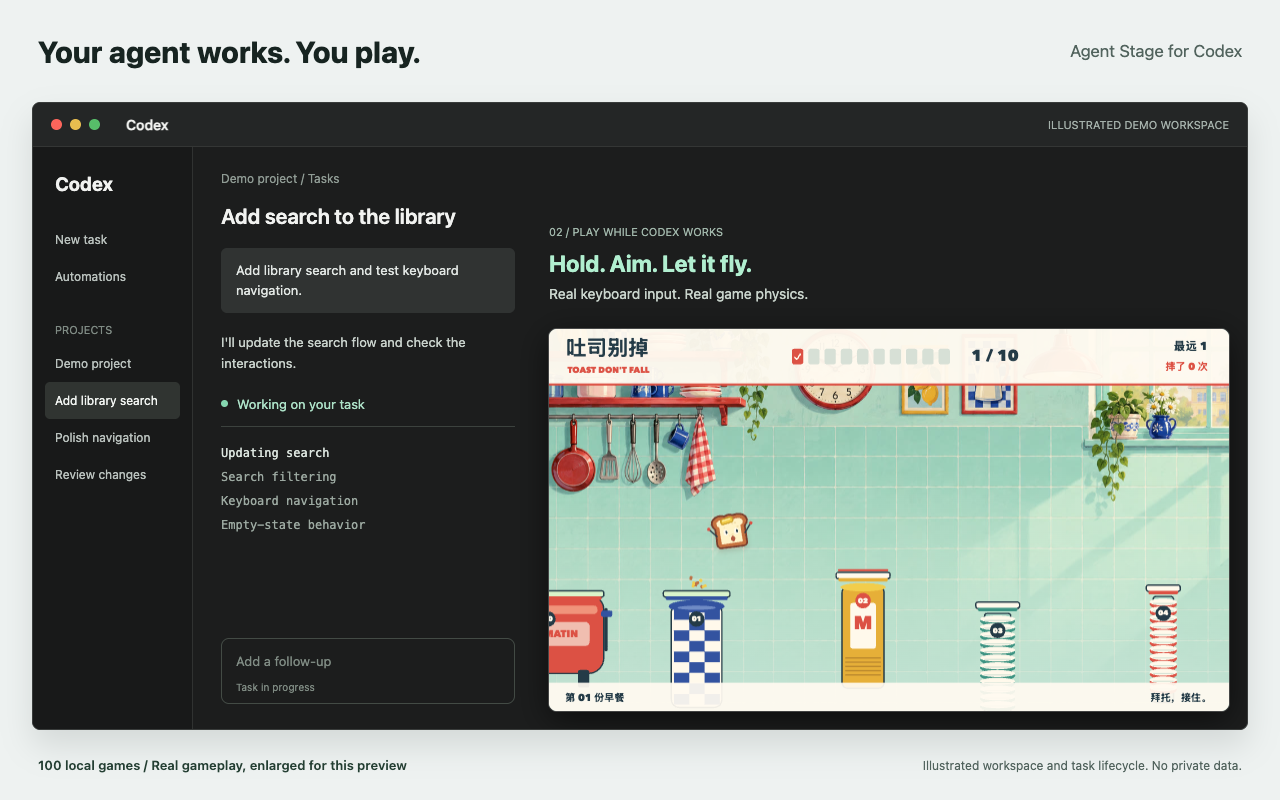
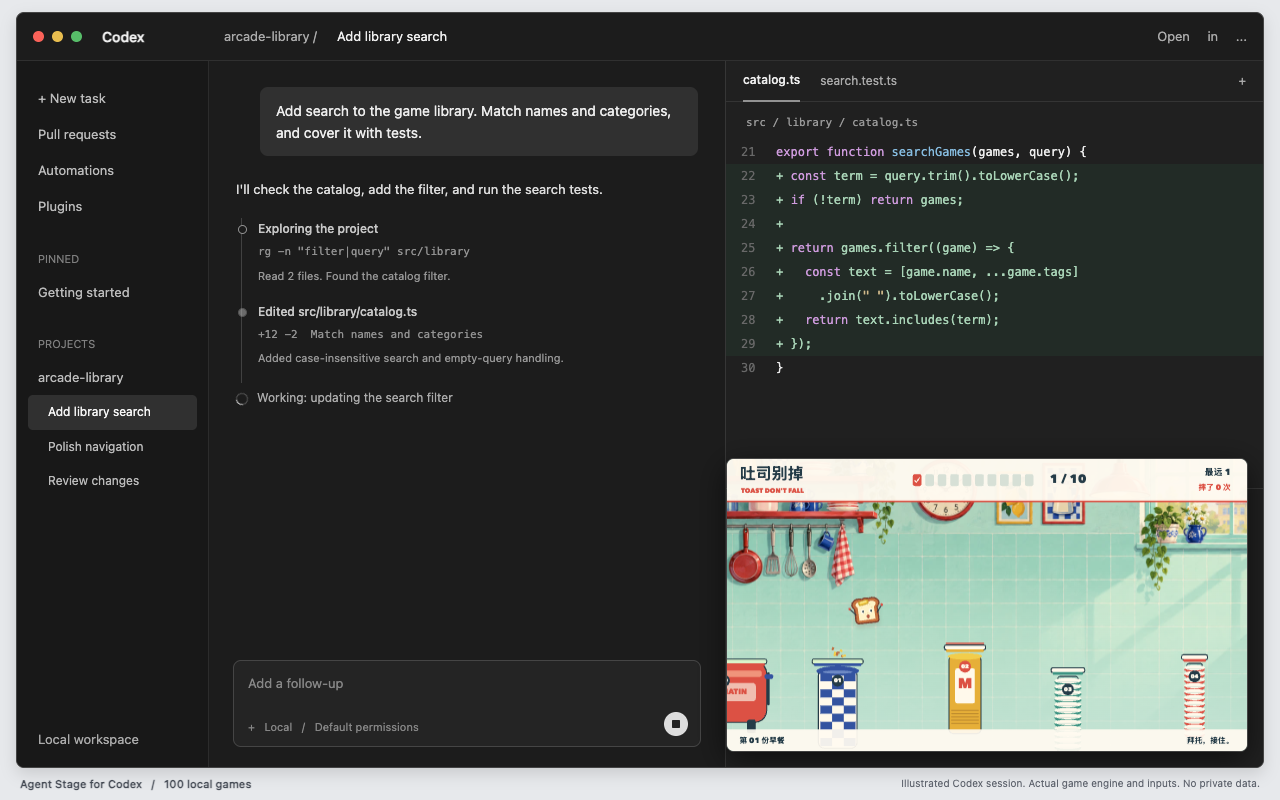
Show concurrent Codex work and gameplay in the README demo

diff --git a/tools/fixtures/readme-preview.html b/tools/fixtures/readme-preview.html
@@ -2,64 +2,109 @@
 <html lang="en">
 <meta charset="utf-8">
 <meta name="viewport" content="width=device-width, initial-scale=1">
-<title>Agent Stage illustrated preview</title>
+<title>Agent Stage illustrated Codex session</title>
 <style>
 * { box-sizing: border-box; }
 html, body { margin: 0; width: 1280px; height: 800px; overflow: hidden; }
-body { background: #eef2f1; color: #f1f2f0; font-family: -apple-system, BlinkMacSystemFont, "Segoe UI", sans-serif; letter-spacing: 0; }
-.heading { height: 102px; padding: 29px 38px; display: flex; justify-content: space-between; align-items: center; color: #172421; }
-.heading strong { font-size: 30px; font-weight: 750; }
-.heading span { font-size: 17px; color: #52645e; }
-.window { position: relative; height: 628px; margin: 0 32px; border: 1px solid #393c3b; border-radius: 8px; background: #1c1d1d; overflow: hidden; box-shadow: 0 16px 32px #17242120; }
-.titlebar { height: 44px; display: flex; align-items: center; gap: 8px; padding: 0 18px; background: #242626; border-bottom: 1px solid #343635; }
-.dot { width: 11px; height: 11px; border-radius: 50%; background: #fc655b; }
+body { background: #e7e9ec; color: #ededed; font: 13px/1.55 -apple-system, BlinkMacSystemFont, "Segoe UI", sans-serif; letter-spacing: 0; }
+.window { position: relative; width: 1248px; height: 756px; margin: 12px 16px 0; border: 1px solid #444; border-radius: 8px; background: #1c1c1c; overflow: hidden; box-shadow: 0 6px 16px #0002; }
+.titlebar { height: 48px; display: flex; align-items: center; padding: 0 16px; gap: 8px; border-bottom: 1px solid #303030; }
+.dot { width: 11px; height: 11px; border-radius: 50%; background: #fa6259; }
 .dot:nth-child(2) { background: #e8bd4f; } .dot:nth-child(3) { background: #57bd69; }
-.titlebar strong { margin-left: 18px; font-size: 14px; font-weight: 550; }
-.titlebar small { margin-left: auto; color: #a4b0aa; font-size: 11px; }
-.sidebar { position: absolute; top: 44px; bottom: 0; left: 0; width: 160px; padding: 26px 12px; background: #181919; border-right: 1px solid #303231; font-size: 12px; }
-.sidebar strong { display: block; padding: 0 10px 26px; font-size: 19px; }
-.nav { padding: 11px 10px; color: #b9c1bd; }
-.nav.active { background: #303431; color: #f2f5f2; border-radius: 5px; }
-.section { color: #7f8b84; font-size: 11px; margin: 28px 10px 9px; }
-.workspace { margin-left: 160px; width: 350px; padding: 24px 28px; }
-.crumb { font-size: 12px; color: #8f9b94; }
-h1 { font-size: 21px; font-weight: 600; margin: 18px 0 20px; }
-.prompt { width: 100%; padding: 13px 15px; border-radius: 6px; color: #e2e7e4; background: #303332; font-size: 13px; line-height: 1.5; }
-.reply { margin-top: 19px; font-size: 13px; line-height: 1.65; color: #c8d1cb; }
-.task { margin-top: 21px; display: flex; align-items: center; gap: 9px; font-size: 13px; color: #ade2c8; }
-.pulse { width: 7px; height: 7px; background: #85d6b0; border-radius: 50%; }
-.terminal { margin-top: 14px; width: 100%; padding: 14px 0; border-top: 1px solid #3c423e; font: 12px/2 ui-monospace, SFMono-Regular, Menlo, monospace; color: #9ca9a1; }
-.terminal b { color: #dce5df; font-weight: 400; }
-.composer { position: absolute; left: 188px; bottom: 25px; width: 294px; height: 66px; border: 1px solid #434b45; border-radius: 8px; padding: 14px; color: #7f8b83; font-size: 13px; }
-.composer small { display: block; margin-top: 12px; font-size: 10px; }
-.companion { position: absolute; width: 680px; height: 382.5px; right: 18px; bottom: 18px; border-radius: 8px; box-shadow: 0 0 0 1px #ffffff35, 0 8px 32px #0009; overflow: hidden; background: #b7dacf; }
-canvas { display: block; width: 680px; height: 382.5px; outline: none; }
-.caption { position: absolute; right: 18px; bottom: 427px; width: 680px; }
-.caption small { display: block; color: #a0b6aa; font-size: 11px; margin-bottom: 12px; }
-.caption strong { color: #b1efd0; font-size: 23px; }
-.caption div { margin-top: 8px; color: #c9d4cc; font-size: 14px; }
-.complete { position: absolute; right: 18px; bottom: 18px; width: 680px; height: 382.5px; display: none; align-items: center; justify-content: center; flex-direction: column; gap: 13px; color: #b2c5b9; font-size: 16px; }
-.complete b { font-size: 28px; color: #f1f5f2; font-weight: 550; }
-body[data-phase="complete"] .companion { visibility: hidden; }
-body[data-phase="complete"] .complete { display: flex; }
-footer { height: 70px; display: flex; align-items: center; justify-content: space-between; margin: 0 38px; color: #52645e; font-size: 12px; }
-footer b { color: #243f33; font-size: 13px; font-weight: 600; }
+.titlebar strong { width: 102px; margin-left: 12px; font-size: 14px; font-weight: 550; }
+.titlebar .project { color: #aaa; margin-left: 12px; }
+.titlebar .title { color: #eee; margin-left: 12px; }
+.titlebar .actions { margin-left: auto; color: #aaa; word-spacing: 14px; }
+.sidebar { position: absolute; top: 48px; bottom: 0; width: 192px; padding: 19px 11px; background: #181818; border-right: 1px solid #2c2c2c; }
+.nav { padding: 8px 10px; color: #bbb; white-space: nowrap; }
+.nav.active { background: #303030; color: #f5f5f5; border-radius: 5px; }
+.section { margin: 25px 10px 7px; color: #7f7f7f; font-size: 11px; }
+.nav.task-link { padding-left: 20px; font-size: 12px; }
+.account { position: absolute; bottom: 18px; left: 21px; color: #aaa; }
+.workspace { position: absolute; left: 192px; top: 48px; bottom: 0; width: 516px; padding: 26px 27px 112px; }
+.prompt { margin: 0 0 22px 24px; padding: 13px 16px; background: #303030; border-radius: 8px; font-size: 14px; line-height: 1.55; }
+.reply { color: #ddd; line-height: 1.7; margin-bottom: 18px; }
+.tool { border-left: 1px solid #414141; padding: 0 0 17px 16px; margin-left: 5px; position: relative; }
+.tool::before { content: ""; position: absolute; width: 7px; height: 7px; border: 1px solid #8f8f8f; border-radius: 50%; background: #1c1c1c; left: -4px; top: 7px; }
+.tool strong { font-size: 12px; color: #c7c7c7; font-weight: 500; }
+.tool code { display: block; font: 11px/1.8 ui-monospace, SFMono-Regular, Menlo, monospace; color: #929292; margin-top: 3px; white-space: pre; }
+.tool .result { color: #969696; font-size: 11px; margin-top: 5px; }
+.tool.future { display: none; }
+body[data-phase="edit"] .tool.edit, body[data-phase="test"] .tool.edit, body[data-phase="complete"] .tool.edit,
+body[data-phase="test"] .tool.test, body[data-phase="complete"] .tool.test { display: block; }
+body[data-phase="read"] .tool.read::before, body[data-phase="edit"] .tool.edit::before, body[data-phase="test"] .tool.test::before { background: #c7c7c7; animation: pulse 1s ease-in-out infinite; }
+@keyframes pulse { 50% { opacity: .3; } }
+.task-status { color: #aaa; font-size: 12px; display: flex; align-items: center; gap: 9px; margin: 6px 0 16px; }
+.spinner { width: 12px; height: 12px; border: 1.5px solid #555; border-top-color: #ddd; border-radius: 50%; animation: spin 1s linear infinite; }
+@keyframes spin { to { transform: rotate(360deg); } }
+.answer { display: none; color: #dedede; line-height: 1.75; font-size: 13px; }
+.answer p { margin: 6px 0; }
+.answer code { color: #bfdbc7; font-size: 12px; }
+.composer { position: absolute; bottom: 20px; left: 24px; right: 24px; height: 87px; border: 1px solid #454545; border-radius: 8px; background: #242424; padding: 12px 14px; color: #868686; }
+.composer .options { position: absolute; bottom: 11px; left: 14px; font-size: 11px; }
+.stop { position: absolute; bottom: 10px; right: 12px; width: 24px; height: 24px; border-radius: 50%; background: #ddd; display: grid; place-items: center; }
+.stop::after { content: ""; width: 8px; height: 8px; background: #222; border-radius: 1px; }
+.code-panel { position: absolute; top: 48px; bottom: 0; left: 708px; right: 0; background: #202020; border-left: 1px solid #363636; }
+.tabs { height: 41px; border-bottom: 1px solid #343434; display: flex; gap: 20px; align-items: center; padding: 0 17px; color: #aaa; font-size: 12px; }
+.tabs b { height: 41px; display: flex; align-items: center; font-weight: 500; color: #eee; border-bottom: 2px solid #929292; }
+.file-path { padding: 14px 20px 11px; color: #999; font: 11px ui-monospace, SFMono-Regular, Menlo, monospace; }
+.diff { font: 12px/24px ui-monospace, SFMono-Regular, Menlo, monospace; white-space: pre; }
+.line { display: block; padding-left: 15px; }
+.line i { display: inline-block; width: 35px; color: #686868; font-style: normal; }
+.kw { color: #cf9bde; } .str { color: #d3bb8b; } .fn { color: #86bce0; }
+.removed { background: #552e303d; color: #d5a1a4; }
+.added { background: #294c373d; color: #a9d4b7; display: none; }
+body[data-phase="edit"] .added, body[data-phase="test"] .added, body[data-phase="complete"] .added { display: block; }
+body[data-phase="edit"] .removed, body[data-phase="test"] .removed, body[data-phase="complete"] .removed { display: none; }
+.terminal { position: absolute; bottom: 0; left: 0; right: 0; height: 279px; border-top: 1px solid #373737; padding: 14px 19px; color: #929292; font: 11px/1.8 ui-monospace, SFMono-Regular, Menlo, monospace; }
+.terminal-label { color: #bbb; font: 11px -apple-system, BlinkMacSystemFont, sans-serif; margin-bottom: 15px; }
+.test-output { display: none; color: #aad3b8; white-space: pre; }
+body[data-phase="complete"] .test-output { display: block; }
+.companion { position: absolute; width: 520px; height: 292.5px; right: 16px; bottom: 16px; border-radius: 7px; box-shadow: 0 0 0 1px #ffffff30, 0 8px 30px #0009; overflow: hidden; background: #b7dacf; z-index: 2; }
+canvas { display: block; width: 520px; height: 292.5px; outline: none; }
+body[data-phase="idle"] .companion, body[data-phase="complete"] .companion { visibility: hidden; }
+body[data-phase="complete"] .answer { display: block; }
+body[data-phase="complete"] .spinner { animation: none; border: 0; background: #8fc5a2; width: 6px; height: 6px; margin: 3px; }
+body[data-phase="complete"] .stop { background: #555; }
+body[data-phase="complete"] .stop::after { background: #aaa; width: 2px; height: 10px; }
+footer { height: 32px; margin: 0 20px; display: flex; align-items: center; justify-content: space-between; color: #626771; font-size: 10px; }
+footer b { font-weight: 550; color: #454b55; font-size: 11px; }
 </style>
-<header class="heading"><strong>Your agent works. You play.</strong><span>Agent Stage for Codex</span></header>
+<body data-phase="idle">
 <main class="window">
-  <div class="titlebar"><i class="dot"></i><i class="dot"></i><i class="dot"></i><strong>Codex</strong><small>ILLUSTRATED DEMO WORKSPACE</small></div>
-  <aside class="sidebar"><strong>Codex</strong><div class="nav">New task</div><div class="nav">Automations</div><div class="section">PROJECTS</div><div class="nav">Demo project</div><div class="nav active">Add library search</div><div class="nav">Polish navigation</div><div class="nav">Review changes</div></aside>
+  <header class="titlebar"><i class="dot"></i><i class="dot"></i><i class="dot"></i><strong>Codex</strong><span class="project">arcade-library /</span><span class="title">Add library search</span><span class="actions">Open in ...</span></header>
+  <aside class="sidebar">
+    <div class="nav">+ New task</div><div class="nav">Pull requests</div><div class="nav">Automations</div><div class="nav">Plugins</div>
+    <div class="section">PINNED</div><div class="nav">Getting started</div>
+    <div class="section">PROJECTS</div><div class="nav">arcade-library</div><div class="nav task-link active">Add library search</div><div class="nav task-link">Polish navigation</div><div class="nav task-link">Review changes</div><div class="account">Local workspace</div>
+  </aside>
   <section class="workspace">
-    <div class="crumb">Demo project / Tasks</div><h1>Add search to the library</h1>
-    <div class="prompt">Add library search and test keyboard navigation.</div>
-    <div class="reply">I'll update the search flow and check the interactions.</div>
-    <div class="task"><i class="pulse"></i><span data-task-status>Working on your task</span></div>
-    <div class="terminal"><b data-tool-status>Updating search</b><br>Search filtering<br>Keyboard navigation<br>Empty-state behavior</div>
+    <div class="prompt">Add search to the game library. Match names and categories, and cover it with tests.</div>
+    <div class="reply">I'll check the catalog, add the filter, and run the search tests.</div>
+    <div class="tool read"><strong>Exploring the project</strong><code>rg -n "filter|query" src/library</code><div class="result" data-read-result>Reading catalog.ts and search.test.ts</div></div>
+    <div class="tool edit future"><strong>Edited src/library/catalog.ts</strong><code>+12 -2  Match names and categories</code><div class="result">Added case-insensitive search and empty-query handling.</div></div>
+    <div class="tool test future"><strong>Running the search tests</strong><code>npm test -- search.test.ts</code><div class="result" data-test-result>Checking matching and keyboard navigation...</div></div>
+    <div class="task-status"><span class="spinner"></span><span data-task-status>Working</span></div>
+    <div class="answer"><p>Search is ready. Names and categories both match, and an empty query shows the full library.</p><p><code>8 tests passed</code> &middot; 2 files changed</p></div>
+    <div class="composer"><span data-composer-text>Add a follow-up</span><span class="options">+ &nbsp; Local &nbsp; / &nbsp; Default permissions</span><span class="stop"></span></div>
   </section>
-  <div class="composer">Add a follow-up<small>Task in progress</small></div>
-  <div class="caption"><small data-step>01 / TASK STARTED</small><strong data-caption>Codex is working. Game on.</strong><div data-detail>Hold to charge. Release to jump.</div></div>
+  <section class="code-panel">
+    <div class="tabs"><b>catalog.ts</b><span>search.test.ts</span><span style="margin-left:auto">+</span></div>
+    <div class="file-path">src / library / catalog.ts</div>
+    <div class="diff"><span class="line"><i>21</i><span class="kw">export function</span> <span class="fn">searchGames</span>(games, query) {</span><span class="line removed"><i>22</i>- <span class="kw">return</span> games;</span><span class="line added"><i>22</i>+ <span class="kw">const</span> term = query.trim().toLowerCase();</span><span class="line added"><i>23</i>+ <span class="kw">if</span> (!term) <span class="kw">return</span> games;</span><span class="line added"><i>24</i>+</span><span class="line added"><i>25</i>+ <span class="kw">return</span> games.filter((game) =&gt; {</span><span class="line added"><i>26</i>+   <span class="kw">const</span> text = [game.name, ...game.tags]</span><span class="line added"><i>27</i>+     .join(<span class="str">" "</span>).toLowerCase();</span><span class="line added"><i>28</i>+   <span class="kw">return</span> text.includes(term);</span><span class="line added"><i>29</i>+ });</span><span class="line"><i>30</i>}</span></div>
+    <div class="terminal"><div class="terminal-label">Terminal &nbsp;&nbsp; Problems &nbsp;&nbsp; Output</div><div data-terminal-command>$ npm test -- search.test.ts</div><div class="test-output">PASS  search.test.ts
+  matches a game name
+  matches a category
+  ignores case
+  handles whitespace
+  keeps the full catalog for an empty query
+  supports keyboard selection
+
+Test Files  1 passed (1)
+     Tests  8 passed (8)</div></div>
+  </section>
   <div class="companion"><canvas tabindex="0" aria-label="Toast Don't Fall gameplay"></canvas></div>
-  <div class="complete"><b>Task complete.</b><span>Game stopped. Back to your work.</span></div>
 </main>
-<footer><b>100 local games / Real gameplay, enlarged for this preview</b><span>Illustrated workspace and task lifecycle. No private data.</span></footer>
+<footer><b>Agent Stage for Codex &nbsp; / &nbsp; 100 local games</b><span>Illustrated Codex session. Actual game engine and inputs. No private data.</span></footer>
+</body>
 </html>

diff --git a/README.md b/README.md
@@ -2,7 +2,7 @@
 
 ![Agent Stage animated demo: play a jumping game while a task runs, then the game stops and closes](docs/media/readme-preview.gif)
 
-*Real gameplay, enlarged for clarity. Illustrated workspace and task lifecycle; no private conversations. [Static preview](docs/media/readme-preview.png).*
+*An illustrated Codex session: project exploration, code changes and tests continue while the real game engine runs in a 520px companion. Not a Codex screen recording; no private conversations. [Static preview](docs/media/readme-preview.png).*
 
 **Your agent works. You play.**
 
@@ -13,6 +13,8 @@ English | [简体中文](README.zh-CN.md)
 **Community project. Not an official OpenAI product. macOS Beta.** No Codex app patching, theme changes or debug port required.
 
 ## Install on Mac
+
+**Source update:** `main` includes the larger 520px companion and updated Codex CLI discovery. The current `0.11.1-beta.2` download predates these changes. A new installer is pending a Desktop task-trigger retest; some existing sessions have not emitted start events despite healthy companion checks.
 
 1. Install, open and sign into **Codex Desktop**.
 2. Open [Releases](https://github.com/lc345/codex-arcade/releases) and download **Agent-Stage-for-Codex.zip**. Double-click to extract it.
